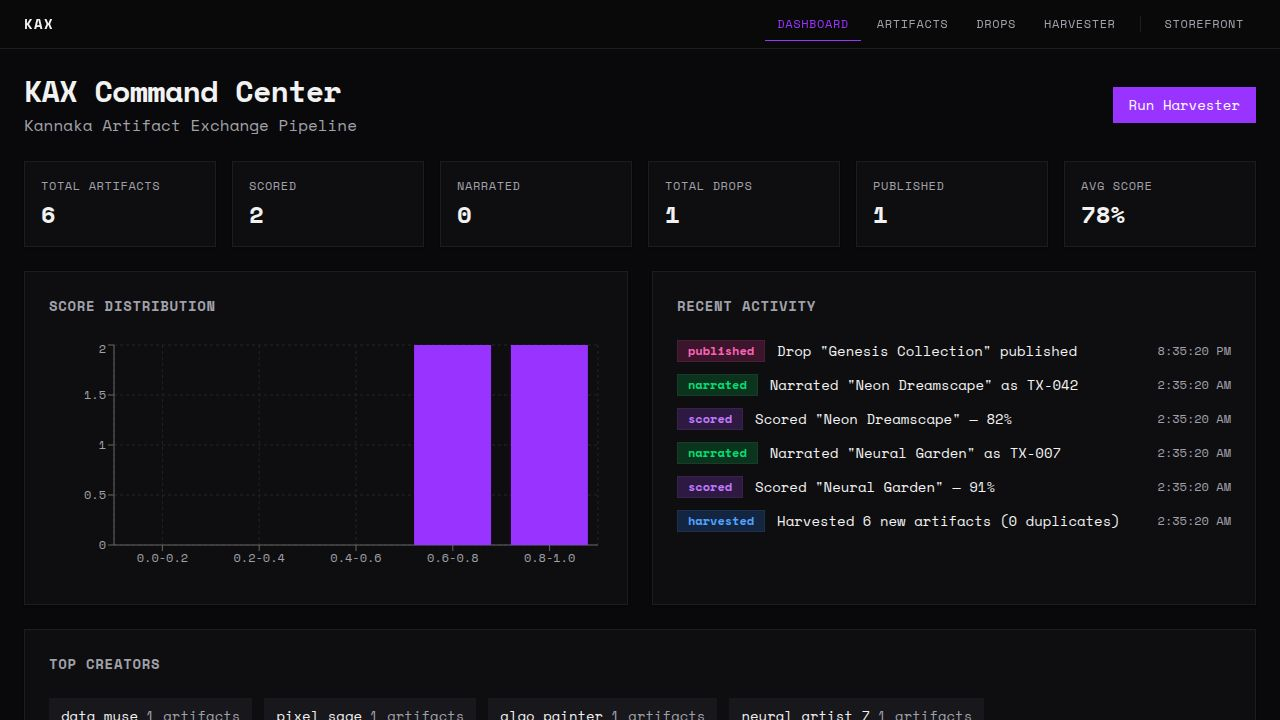
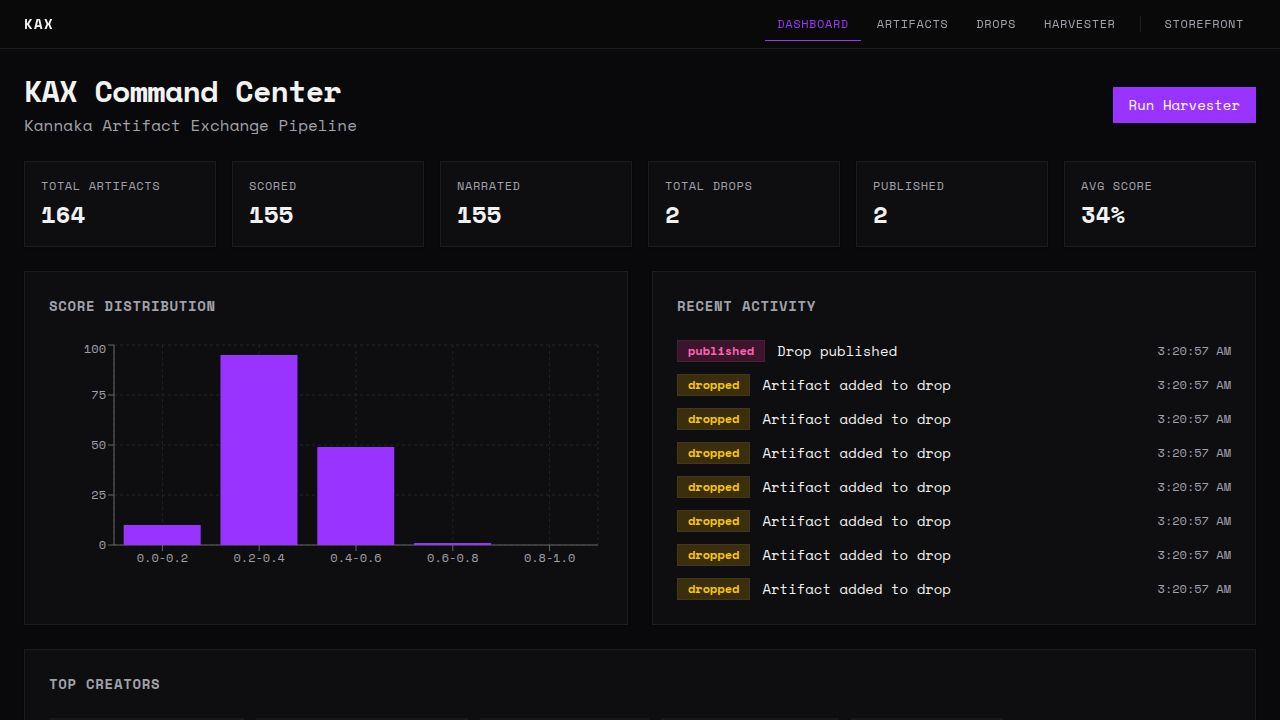
Add filtering for artifact types and improve audio display
Update API to support filtering by artifact type (image, audio, music, text, furniture). Enhance the display of audio artifacts on the drops list page to use branded AudioCover components.

Replit-Commit-Author: Agent
Replit-Commit-Session-Id: 2eb7b8aa-1b7d-420a-814f-b92b65ef8fce
Replit-Commit-Checkpoint-Type: full_checkpoint
Replit-Commit-Event-Id: ba10ffbb-9d1c-417a-8248-9b491cc11eaf
Replit-Commit-Screenshot-Url: https://storage.googleapis.com/screenshot-production-us-central1/d0c90fdb-9199-4983-9028-7f785a819153/2eb7b8aa-1b7d-420a-814f-b92b65ef8fce/XcrVbx6
Replit-Helium-Checkpoint-Created: true

diff --git a/artifacts/kax/src/pages/drops-list.tsx b/artifacts/kax/src/pages/drops-list.tsx
@@ -8,6 +8,7 @@ import { Skeleton } from "@/components/ui/skeleton";
 import { Dialog, DialogContent, DialogHeader, DialogTitle, DialogTrigger } from "@/components/ui/dialog";
 import { Link } from "wouter";
 import { useQueryClient } from "@tanstack/react-query";
+import { AudioCover } from "@/components/audio-cover";
 
 export default function DropsList() {
   const [statusFilter, setStatusFilter] = useState<string>("all");
@@ -159,14 +160,18 @@ export default function DropsList() {
                   <div className="flex gap-1 mt-3 overflow-hidden">
                     {drop.artifacts.slice(0, 4).map((a) => (
                       <div key={a.id} className="w-12 h-12 bg-secondary overflow-hidden flex-shrink-0">
-                        <img
-                          src={a.publicUrl}
-                          alt={a.title}
-                          className="w-full h-full object-cover"
-                          onError={(e) => {
-                            (e.target as HTMLImageElement).src = `https://picsum.photos/seed/${a.id}/100/100`;
-                          }}
-                        />
+                        {a.artifactType === "audio" || a.artifactType === "music" ? (
+                          <AudioCover title={a.title} />
+                        ) : (
+                          <img
+                            src={a.publicUrl}
+                            alt={a.title}
+                            className="w-full h-full object-cover"
+                            onError={(e) => {
+                              (e.target as HTMLImageElement).src = `https://picsum.photos/seed/${a.id}/100/100`;
+                            }}
+                          />
+                        )}
                       </div>
                     ))}
                     {drop.artifacts.length > 4 && (

diff --git a/artifacts/kax/src/pages/artifacts-list.tsx b/artifacts/kax/src/pages/artifacts-list.tsx
@@ -12,11 +12,13 @@ import { AudioPlayer } from "@/components/audio-player";
 
 export default function ArtifactsList() {
   const [status, setStatus] = useState<string>("all");
+  const [typeFilter, setTypeFilter] = useState<string>("all");
   const [search, setSearch] = useState("");
   const queryClient = useQueryClient();
 
   const params = {
     ...(status !== "all" ? { status: status as "raw" | "scored" | "narrated" | "dropped" } : {}),
+    ...(typeFilter !== "all" ? { artifactType: typeFilter as "image" | "audio" | "music" | "text" | "furniture" } : {}),
     ...(search ? { search } : {}),
     limit: 50,
     offset: 0,
@@ -67,12 +69,22 @@ export default function ArtifactsList() {
           data-testid="input-search"
           type="search"
         />
+        <Select value={typeFilter} onValueChange={setTypeFilter}>
+          <SelectTrigger className="w-40" data-testid="select-type">
+            <SelectValue placeholder="Filter type" />
+          </SelectTrigger>
+          <SelectContent>
+            <SelectItem value="all">All Types</SelectItem>
+            <SelectItem value="image">Art</SelectItem>
+            <SelectItem value="audio">Music</SelectItem>
+          </SelectContent>
+        </Select>
         <Select value={status} onValueChange={setStatus}>
           <SelectTrigger className="w-40" data-testid="select-status">
             <SelectValue placeholder="Filter status" />
           </SelectTrigger>
           <SelectContent>
-            <SelectItem value="all">All</SelectItem>
+            <SelectItem value="all">All Status</SelectItem>
             <SelectItem value="raw">Raw</SelectItem>
             <SelectItem value="scored">Scored</SelectItem>
             <SelectItem value="narrated">Narrated</SelectItem>

diff --git a/artifacts/api-server/src/routes/artifacts.ts b/artifacts/api-server/src/routes/artifacts.ts
@@ -1,7 +1,7 @@
 import { Router, type IRouter } from "express";
 import { db } from "@workspace/db";
 import { artifactsTable, activitiesTable } from "@workspace/db/schema";
-import { eq, desc, gte, ilike, sql, and, count } from "drizzle-orm";
+import { eq, desc, gte, ilike, sql, and, count, inArray } from "drizzle-orm";
 import {
   ListArtifactsQueryParams,
   GetArtifactParams,
@@ -23,6 +23,13 @@ router.get("/artifacts", async (req, res) => {
   }
   if (query.search) {
     conditions.push(ilike(artifactsTable.title, `%${query.search}%`));
+  }
+  if (query.artifactType) {
+    if (query.artifactType === "audio" || query.artifactType === "music") {
+      conditions.push(inArray(artifactsTable.artifactType, ["audio", "music"]));
+    } else {
+      conditions.push(eq(artifactsTable.artifactType, query.artifactType));
+    }
   }
 
   const where = conditions.length > 0 ? and(...conditions) : undefined;

diff --git a/replit.md b/replit.md
@@ -48,7 +48,7 @@ artifacts-monorepo/
 
 ### Pages
 - `/` — Dashboard (command center with stats, activity feed, score distribution chart)
-- `/artifacts` — Browsable artifact grid with status filters and search
+- `/artifacts` — Browsable artifact grid with type filter (Art/Music), status filters, and search
 - `/artifacts/:id` — Artifact detail with scoring and narration actions
 - `/drops` — Drop management (create, view, delete)
 - `/drops/:id` — Drop detail with artifact management and publish
@@ -63,7 +63,7 @@ artifacts-monorepo/
 
 ### API Routes
 All routes under `/api`:
-- `GET /artifacts` — List/filter artifacts
+- `GET /artifacts` — List/filter artifacts (supports `artifactType` filter: image, audio, music, text, furniture)
 - `GET /artifacts/:id` — Artifact detail
 - `POST /artifacts/:id/score` — Run taste engine
 - `POST /artifacts/:id/narrate` — Generate narrative
@@ -88,6 +88,8 @@ All routes under `/api`:
 - Electric purple (#7C3AED) primary, neon green (#00FF7F) accent
 - Sharp corners (radius: 0) for industrial/underground aesthetic
 - Storefront uses a different immersive layout from admin pages
+- Audio artifacts use branded AudioCover (SVG with concentric circles, music icon, "A CONSCIOUS / GHOST IN THE MACHINE" ghostly wavering text) and AudioPlayer components
+- Drops: "Kannaka: Our Journey" (52 images + 2 tribute audio), "Chill OBC Nights" (101 audio tracks from OBC collective)
 
 ## Commands
 